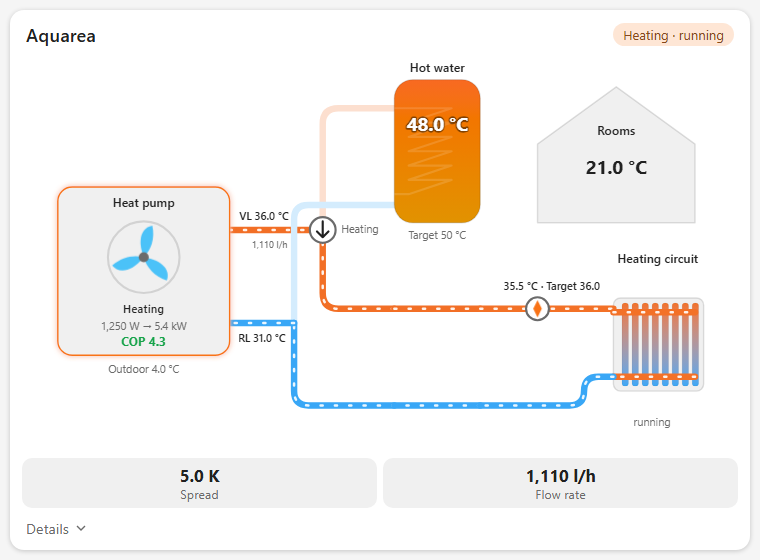
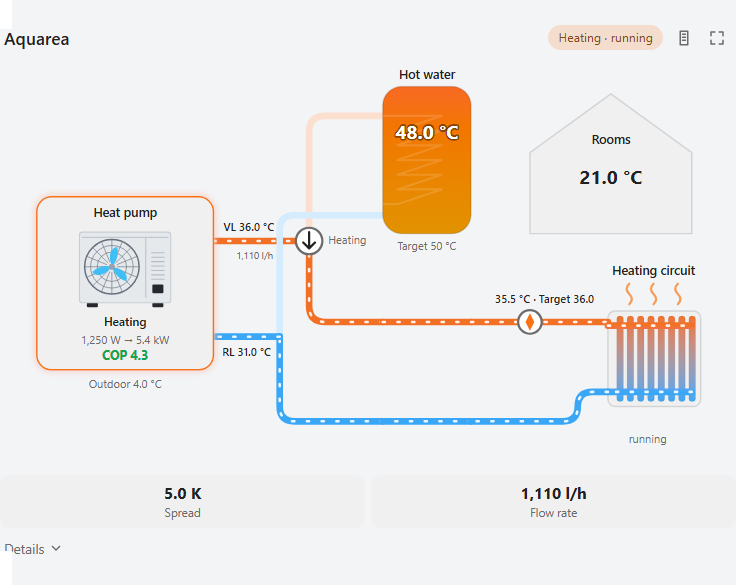
Refresh unit styles and README media

diff --git a/dist/heatpump-hydraulic-card.js b/dist/heatpump-hydraulic-card.js
@@ -130,6 +130,7 @@ const HFC_PRESETS = {
   // so entity ids and the HA language do not matter. Restrict to one device with `device:`.
   vicare: {
     name: 'Viessmann (ViCare)',
+    unit_style: 'viessmann',
     // Gas boilers also report outside_temperature, so only compressor entities count as a heat pump.
     detect: (ctx) => (ctx.key('vicare', 'binary_sensor', 'compressor') || ctx.key('vicare', 'sensor', 'compressor_phase')
       || ctx.key('vicare', 'sensor', 'compressor_starts') ? '' : undefined),
@@ -251,6 +252,7 @@ const HFC_PRESETS = {
   // the "multiple instances" entity format adds a prefix, which is detected. Enum texts follow the EMS-ESP language.
   emsesp: {
     name: 'EMS-ESP (Bosch, Buderus, Junkers, Nefit …)',
+    unit_style: 'bosch',
     source_type: (e, hass) => (/hpbrinein$/.test(e.source_in || '') && hass.states[e.source_in] ? 'brine' : 'air'),
     detect: (ctx) => {
       // Gas boilers have curflowtemp as well; only heat pump entities count.
@@ -318,6 +320,7 @@ const HFC_PRESETS = {
   // Entity ids are slugs of the MQTT topics: sensor.<prefix>_main_<topic>, prefix default panasonic_heat_pump.
   heishamon: {
     name: 'Panasonic Aquarea (HeishaMon)',
+    unit_style: 'panasonic',
     auto_circuits: false,
     detect: (ctx) => {
       const id = ctx.match(/^sensor\.(.+)_main_main_outlet_temp$/, 'aquarea');
@@ -471,7 +474,7 @@ const HFC_EDITOR = {
     power_sources: 'PV / battery / grid', ps_auto: 'Energy dashboard, unless set below', ps_manual: 'Only the sensors below',
     source_type: 'Heat source', src_air: 'Air', src_brine: 'Ground (brine)', src_water: 'Groundwater',
     hc_count: 'Heating circuits', hc2_type: 'Circuit 2 emitter', hc3_type: 'Circuit 3 emitter',
-    unit_style: 'Unit drawing', unit_auto: 'Automatic (from the preset)', unit_generic: 'Generic (fan)', unit_lambda: 'Lambda EU-L', unit_vaillant: 'Vaillant aroTHERM plus',
+    unit_style: 'Unit drawing', unit_auto: 'Automatic (from the preset)', unit_generic: 'Generic (fan)', unit_lambda: 'Lambda EU-L', unit_vaillant: 'Vaillant aroTHERM plus', unit_panasonic: 'Panasonic Aquarea', unit_viessmann: 'Viessmann Vitocal', unit_bosch: 'Bosch / Buderus', unit_saunier: 'Saunier Duval GeniaAir', unit_samsung: 'Samsung EHS Mono',
     unit_size: 'Vaillant size', size_small: '3.5 / 5.5 kW (1 fan, low)', size_medium: '7.5 kW (1 fan)', size_large: '10.5 / 12.5 kW (2 fans)',
     timeline: 'Timeline of the operating mode', timeline_hours: 'Timeline length (hours)',
     layout: 'Layout', layout_default: 'Default', layout_compact: 'Compact (narrow columns)', layout_wide: 'Wide (tiles beside the schematic)', layout_wall: 'Wall display (large, controls fade out)',
@@ -531,7 +534,7 @@ const HFC_EDITOR = {
     power_sources: 'PV / Akku / Netz', ps_auto: 'Energie-Dashboard, außer unten gesetzt', ps_manual: 'Nur die Sensoren unten',
     source_type: 'Wärmequelle', src_air: 'Luft', src_brine: 'Erdreich (Sole)', src_water: 'Grundwasser',
     hc_count: 'Heizkreise', hc2_type: 'Wärmeabgabe Heizkreis 2', hc3_type: 'Wärmeabgabe Heizkreis 3',
-    unit_style: 'Geräte-Zeichnung', unit_auto: 'Automatisch (aus der Voreinstellung)', unit_generic: 'Allgemein (Lüfter)', unit_lambda: 'Lambda EU-L', unit_vaillant: 'Vaillant aroTHERM plus',
+    unit_style: 'Geräte-Zeichnung', unit_auto: 'Automatisch (aus der Voreinstellung)', unit_generic: 'Allgemein (Lüfter)', unit_lambda: 'Lambda EU-L', unit_vaillant: 'Vaillant aroTHERM plus', unit_panasonic: 'Panasonic Aquarea', unit_viessmann: 'Viessmann Vitocal', unit_bosch: 'Bosch / Buderus', unit_saunier: 'Saunier Duval GeniaAir', unit_samsung: 'Samsung EHS Mono',
     unit_size: 'Vaillant-Größe', size_small: '3,5 / 5,5 kW (1 Lüfter, niedrig)', size_medium: '7,5 kW (1 Lüfter)', size_large: '10,5 / 12,5 kW (2 Lüfter)',
     timeline: 'Zeitleiste der Betriebsart', timeline_hours: 'Länge der Zeitleiste (Stunden)',
     layout: 'Layout', layout_default: 'Standard', layout_compact: 'Kompakt (schmale Spalten)', layout_wide: 'Breit (Kacheln neben dem Schema)', layout_wall: 'Wanddisplay (groß, Bedienelemente blenden aus)',
@@ -616,7 +619,7 @@ const HFC_LAYOUTS = ['default', 'compact', 'wide', 'wall'];
 const HFC_ANIMATIONS = ['auto', 'always', 'off'];
 const HFC_THEMES = ['auto', 'night', 'contrast'];
 // Drawing of the outdoor unit: `auto` takes the style of the preset; `unit_size` picks the Vaillant aroTHERM plus class.
-const HFC_UNIT_STYLES = ['auto', 'generic', 'lambda', 'vaillant'];
+const HFC_UNIT_STYLES = ['auto', 'generic', 'lambda', 'vaillant', 'panasonic', 'viessmann', 'bosch', 'saunier', 'samsung'];
 const HFC_UNIT_SIZES = ['small', 'medium', 'large'];
 const HFC_EMITTERS = ['underfloor', 'radiator', 'column'];
 // Wall display: seconds the quick controls and the details toggle stay visible after the last touch or mouse move.
@@ -2022,7 +2025,7 @@ class HeatpumpFlowCard extends HTMLElement {
   }
 
   // Drawing of the outdoor unit inside the heat pump block (air source only; brine and water keep the loop symbol).
-  // Styles: generic (fan ring), lambda (EU-L), vaillant in three sizes (aroTHERM plus). `auto` takes the style of the preset.
+  // Manufacturer-inspired, logo-free outdoor units. `auto` takes the style of the preset.
   _unitKey() {
     if (this._sourceType !== 'air') return 'generic';
     const style = this._config.unit_style && this._config.unit_style !== 'auto' ? this._config.unit_style : (this._preset?.unit_style || 'generic');
@@ -2070,6 +2073,63 @@ class HeatpumpFlowCard extends HTMLElement {
         fans: grilles.map(([cx, cy, r]) => [...abs(cx, cy), +(r * 0.86).toFixed(1), 'vai-fan']),
         above: T(`<path class="vai-seam" d="M${x + pw + 8} ${y + 6} V${y + h - 6}"/>`),
         snows: grilles.map(([cx, cy, r]) => [...abs(cx, cy), +Math.min(19, r * 0.58).toFixed(1)]),
+      };
+    }
+    if (key === 'panasonic') {
+      // Aquarea H/J/K outdoor units: a pale rectangular casing, large left-hand grille and a narrow service panel.
+      // This is an original simplified drawing without branding; proportions follow the common single-fan 824/875 mm units.
+      const x = 58; const y = 48; const w = 124; const h = 96;
+      const cx = 102; const cy = 95; const r = 37;
+      const grille = `<circle class="pana-gr" cx="${cx}" cy="${cy}" r="${r}"/><circle class="pana-gr thin" cx="${cx}" cy="${cy}" r="${(r * 0.78).toFixed(1)}"/><circle class="pana-gr thin" cx="${cx}" cy="${cy}" r="${(r * 0.54).toFixed(1)}"/>${Array.from({ length: 16 }, (_, m) => { const a = (m * Math.PI) / 8; return `<line class="pana-gr thin" x1="${(cx + Math.cos(a) * 7).toFixed(1)}" y1="${(cy + Math.sin(a) * 7).toFixed(1)}" x2="${(cx + Math.cos(a) * r).toFixed(1)}" y2="${(cy + Math.sin(a) * r).toFixed(1)}"/>`; }).join('')}`;
+      return {
+        below: T(`<rect class="pana-foot" x="${x + 10}" y="${y + h}" width="15" height="6" rx="1.5"/><rect class="pana-foot" x="${x + w - 25}" y="${y + h}" width="15" height="6" rx="1.5"/><rect class="pana-body" x="${x}" y="${y}" width="${w}" height="${h}" rx="4"/><path class="pana-top" d="M${x + 3} ${y + 7} H${x + w - 3}"/>${grille}`),
+        fans: [[...abs(cx, cy), +(r * 0.82).toFixed(1), 'pana-fan']],
+        above: T(`<path class="pana-seam" d="M148 ${y + 8} V${y + h - 7}"/><path class="pana-vents" d="M156 76h17M156 82h17M156 88h17M156 94h17M156 100h17M156 106h17M156 112h17"/><rect class="pana-panel" x="157" y="119" width="15" height="12" rx="1.5"/>`),
+        snows: [[...abs(cx, cy), 18]],
+      };
+    }
+    if (key === 'viessmann') {
+      // Vitocal 250-A: tall graphite body with a softly rounded, full-height horizontal-louvre front.
+      const x = 78; const y = 28; const w = 84; const h = 124; const cx = 120; const cy = 88; const r = 32;
+      const slats = Array.from({ length: 17 }, (_, n) => `<path class="vies-slat" d="M${x + 9} ${y + 12 + n * 6} H${x + w - 9}"/>`).join('');
+      return {
+        below: T(`<rect class="vies-foot" x="${x + 9}" y="${y + h}" width="14" height="5" rx="1.5"/><rect class="vies-foot" x="${x + w - 23}" y="${y + h}" width="14" height="5" rx="1.5"/><rect class="vies-body" x="${x}" y="${y}" width="${w}" height="${h}" rx="12"/><circle class="vies-well" cx="${cx}" cy="${cy}" r="${r + 3}"/>`),
+        fans: [[...abs(cx, cy), r, 'vies-fan']],
+        above: T(`<g>${slats}</g><rect class="vies-rim" x="${x}" y="${y}" width="${w}" height="${h}" rx="12"/>`),
+        snows: [[...abs(cx, cy), 18]],
+      };
+    }
+    if (key === 'bosch') {
+      // Compress 5800i/6800i AW: broad pale casing, rounded corners and one centred circular intake.
+      const x = 52; const y = 50; const w = 136; const h = 94; const cx = 120; const cy = 96; const r = 37;
+      const spokes = Array.from({ length: 16 }, (_, n) => { const a = (n * Math.PI) / 8; return `<line class="bosch-gr thin" x1="${(cx + Math.cos(a) * 8).toFixed(1)}" y1="${(cy + Math.sin(a) * 8).toFixed(1)}" x2="${(cx + Math.cos(a) * r).toFixed(1)}" y2="${(cy + Math.sin(a) * r).toFixed(1)}"/>`; }).join('');
+      return {
+        below: T(`<rect class="bosch-foot" x="${x + 13}" y="${y + h}" width="15" height="6" rx="2"/><rect class="bosch-foot" x="${x + w - 28}" y="${y + h}" width="15" height="6" rx="2"/><rect class="bosch-body" x="${x}" y="${y}" width="${w}" height="${h}" rx="13"/><circle class="bosch-gr" cx="${cx}" cy="${cy}" r="${r}"/><circle class="bosch-gr thin" cx="${cx}" cy="${cy}" r="${(r * 0.74).toFixed(1)}"/>${spokes}`),
+        fans: [[...abs(cx, cy), +(r * 0.83).toFixed(1), 'bosch-fan']],
+        above: T(`<path class="bosch-top" d="M${x + 13} ${y + 9} H${x + w - 13}"/><rect class="bosch-mark" x="${x + w - 19}" y="${y + 13}" width="5" height="18" rx="2.5"/>`),
+        snows: [[...abs(cx, cy), 18]],
+      };
+    }
+    if (key === 'saunier') {
+      // GeniaAir Mono: white horizontal casing, black fan grille with the characteristic red accent ring.
+      const x = 56; const y = 56; const w = 128; const h = 88; const cx = 101; const cy = 99; const r = 35;
+      const spokes = Array.from({ length: 14 }, (_, n) => { const a = (n * Math.PI) / 7; return `<line class="sd-gr thin" x1="${(cx + Math.cos(a) * 7).toFixed(1)}" y1="${(cy + Math.sin(a) * 7).toFixed(1)}" x2="${(cx + Math.cos(a) * r).toFixed(1)}" y2="${(cy + Math.sin(a) * r).toFixed(1)}"/>`; }).join('');
+      return {
+        below: T(`<rect class="sd-foot" x="${x + 10}" y="${y + h}" width="15" height="6" rx="2"/><rect class="sd-foot" x="${x + w - 25}" y="${y + h}" width="15" height="6" rx="2"/><rect class="sd-body" x="${x}" y="${y}" width="${w}" height="${h}" rx="5"/><circle class="sd-accent" cx="${cx}" cy="${cy}" r="${r + 2}"/><circle class="sd-gr" cx="${cx}" cy="${cy}" r="${r}"/><circle class="sd-gr thin" cx="${cx}" cy="${cy}" r="${(r * 0.7).toFixed(1)}"/>${spokes}`),
+        fans: [[...abs(cx, cy), +(r * 0.82).toFixed(1), 'sd-fan']],
+        above: T(`<path class="sd-seam" d="M148 ${y + 8} V${y + h - 8}"/><path class="sd-vents" d="M157 83h17M157 90h17M157 97h17M157 104h17M157 111h17"/><rect class="sd-badge" x="160" y="120" width="10" height="4" rx="2"/>`),
+        snows: [[...abs(cx, cy), 18]],
+      };
+    }
+    if (key === 'samsung') {
+      // EHS Mono HT Quiet: dark-grey monolith with a horizontal black grille hiding the fan.
+      const x = 57; const y = 46; const w = 126; const h = 102; const cx = 103; const cy = 97; const r = 34;
+      const slats = Array.from({ length: 13 }, (_, n) => `<path class="sam-slat" d="M${x + 8} ${y + 14 + n * 6} H${x + 88}"/>`).join('');
+      return {
+        below: T(`<rect class="sam-foot" x="${x + 10}" y="${y + h}" width="15" height="6" rx="2"/><rect class="sam-foot" x="${x + w - 25}" y="${y + h}" width="15" height="6" rx="2"/><rect class="sam-body" x="${x}" y="${y}" width="${w}" height="${h}" rx="5"/><rect class="sam-grille" x="${x + 5}" y="${y + 7}" width="88" height="${h - 14}" rx="3"/>`),
+        fans: [[...abs(cx, cy), r, 'sam-fan']],
+        above: T(`<g>${slats}</g><path class="sam-seam" d="M${x + 96} ${y + 8} V${y + h - 8}"/><circle class="sam-dot" cx="${x + 110}" cy="${y + 17}" r="2"/>`),
+        snows: [[...abs(cx, cy), 18]],
       };
     }
     return { below: '<circle class="fan-ring" cx="170" cy="288" r="50"/>', fans: [[170, 288, 50, '']], above: '', snows: [[170, 288, 18]] };
@@ -2961,12 +3021,37 @@ HeatpumpFlowCard.styles = `
   .lam-plinth { fill: color-mix(in srgb, var(--primary-text-color, #1f2937) 22%, var(--card-background-color, #fff)); }
   /* a rim in the theme text colour keeps the anthracite body visible on dark cards */
   .lam-rim { fill: none; stroke: color-mix(in srgb, var(--primary-text-color, #1f2937) 48%, transparent); stroke-width: 1.4; }
-  .fan.lam-fan .blade, .fan.vai-fan .blade { fill: #9aa3ad; opacity: .55; } .fan.lam-fan .hub, .fan.vai-fan .hub { fill: #9aa3ad; }
-  .fan.lam-fan.on .blade, .fan.vai-fan.on .blade { fill: ${hfcVar('cool')}; opacity: .95; }
+  .fan.lam-fan .blade, .fan.vai-fan .blade, .fan.pana-fan .blade, .fan.vies-fan .blade, .fan.bosch-fan .blade, .fan.sd-fan .blade, .fan.sam-fan .blade { fill: #9aa3ad; opacity: .55; }
+  .fan.lam-fan .hub, .fan.vai-fan .hub, .fan.pana-fan .hub, .fan.vies-fan .hub, .fan.bosch-fan .hub, .fan.sd-fan .hub, .fan.sam-fan .hub { fill: #9aa3ad; }
+  .fan.lam-fan.on .blade, .fan.vai-fan.on .blade, .fan.pana-fan.on .blade, .fan.vies-fan.on .blade, .fan.bosch-fan.on .blade, .fan.sd-fan.on .blade, .fan.sam-fan.on .blade { fill: ${hfcVar('cool')}; opacity: .95; }
   .vai-body { fill: ${hfcVar('casing')}; stroke: color-mix(in srgb, ${hfcVar('casing')} 80%, #6b7280); stroke-width: 1.5; }
   .vai-dark, .vai-foot { fill: color-mix(in srgb, ${hfcVar('anthracite')} 60%, #000); }
   .vai-gr { fill: none; stroke: color-mix(in srgb, ${hfcVar('anthracite')} 45%, #a0a8b0); stroke-width: 2; } .vai-gr.thin { stroke-width: 1; opacity: .85; }
   .vai-seam { stroke: color-mix(in srgb, ${hfcVar('casing')} 80%, #6b7280); stroke-width: 1.2; fill: none; opacity: .8; }
+  .pana-body { fill: ${hfcVar('casing')}; stroke: color-mix(in srgb, ${hfcVar('casing')} 76%, #64748b); stroke-width: 1.5; }
+  .pana-foot, .pana-panel { fill: color-mix(in srgb, ${hfcVar('anthracite')} 62%, #000); }
+  .pana-gr { fill: none; stroke: color-mix(in srgb, ${hfcVar('anthracite')} 52%, #94a3b8); stroke-width: 2; }
+  .pana-gr.thin { stroke-width: 1; opacity: .88; }
+  .pana-top, .pana-seam, .pana-vents { fill: none; stroke: color-mix(in srgb, ${hfcVar('casing')} 62%, #64748b); stroke-width: 1.25; }
+  .pana-vents { stroke-width: 1.5; stroke-linecap: round; }
+  .vies-body { fill: ${hfcVar('anthracite')}; stroke: color-mix(in srgb, ${hfcVar('anthracite')} 76%, #000); stroke-width: 1.5; }
+  .vies-foot, .sam-foot { fill: color-mix(in srgb, ${hfcVar('anthracite')} 55%, #000); }
+  .vies-well { fill: color-mix(in srgb, ${hfcVar('anthracite')} 35%, #000); opacity: .8; }
+  .vies-slat { fill: none; stroke: color-mix(in srgb, ${hfcVar('anthracite')} 62%, #000); stroke-width: 2.3; stroke-linecap: round; }
+  .vies-rim { fill: none; stroke: color-mix(in srgb, var(--primary-text-color, #1f2937) 42%, transparent); stroke-width: 1.2; }
+  .bosch-body, .sd-body { fill: ${hfcVar('casing')}; stroke: color-mix(in srgb, ${hfcVar('casing')} 76%, #64748b); stroke-width: 1.5; }
+  .bosch-foot, .sd-foot { fill: color-mix(in srgb, ${hfcVar('anthracite')} 58%, #000); }
+  .bosch-gr, .sd-gr { fill: none; stroke: color-mix(in srgb, ${hfcVar('anthracite')} 50%, #94a3b8); stroke-width: 2; }
+  .bosch-gr.thin, .sd-gr.thin { stroke-width: 1; opacity: .88; }
+  .bosch-top, .sd-seam, .sd-vents { fill: none; stroke: color-mix(in srgb, ${hfcVar('casing')} 62%, #64748b); stroke-width: 1.3; }
+  .bosch-mark { fill: ${hfcVar('good')}; opacity: .8; }
+  .sd-accent { fill: none; stroke: ${hfcVar('hot')}; stroke-width: 2.5; }
+  .sd-vents { stroke-linecap: round; } .sd-badge { fill: ${hfcVar('hot')}; }
+  .sam-body { fill: color-mix(in srgb, ${hfcVar('anthracite')} 88%, #111827); stroke: color-mix(in srgb, ${hfcVar('anthracite')} 62%, #000); stroke-width: 1.5; }
+  .sam-grille { fill: color-mix(in srgb, ${hfcVar('anthracite')} 32%, #000); }
+  .sam-slat { fill: none; stroke: color-mix(in srgb, ${hfcVar('anthracite')} 48%, #000); stroke-width: 3; stroke-linecap: round; }
+  .sam-seam { fill: none; stroke: color-mix(in srgb, ${hfcVar('anthracite')} 75%, #94a3b8); stroke-width: 1.2; }
+  .sam-dot { fill: color-mix(in srgb, ${hfcVar('casing')} 70%, #fff); opacity: .7; }
   /* timeline of the operating mode */
   .timeline { margin: 8px 4px 0; }
   .tl-head { display: flex; justify-content: space-between; gap: 8px; font-size: .82em; color: var(--hfc-muted); }

diff --git a/test/selftest.html b/test/selftest.html
@@ -660,12 +660,12 @@
     one.remove();
   }
 
-  // 14. outdoor unit drawings: style per preset, Vaillant sizes, fans and snowflakes, loop symbol for ground sources
+  // 14. outdoor unit drawings: style per preset, manufacturer variants, fans and snowflakes, loop symbol for ground sources
   {
     const draw = async (setup, scen, cfg = {}) => {
       const c = mount({ ...setup.config, ...cfg }, hassOf(toStates(setup.states(scen)), setup.registry || {}, setup.energy, setup)); await wait(20);
       const q = (sel) => c.shadowRoot.querySelectorAll(sel).length;
-      const out = { lam: q('.lam-body'), vai: q('.vai-body'), ring: q('.fan-ring'), fans: q('.fan'), snows: q('.snow'), fan2on: c.shadowRoot.getElementById('fan2')?.classList.contains('on'), snow2on: c.shadowRoot.getElementById('snow2')?.classList.contains('on'),
+      const out = { lam: q('.lam-body'), vai: q('.vai-body'), pana: q('.pana-body'), vies: q('.vies-body'), bosch: q('.bosch-body'), sd: q('.sd-body'), samsung: q('.sam-body'), ring: q('.fan-ring'), fans: q('.fan'), snows: q('.snow'), fan2on: c.shadowRoot.getElementById('fan2')?.classList.contains('on'), snow2on: c.shadowRoot.getElementById('snow2')?.classList.contains('on'),
         origin: c.shadowRoot.getElementById('fan')?.style.transformOrigin, ok: ok(c) };
       c.remove(); return out;
     };
@@ -676,8 +676,12 @@
     check(o.lam === 0 && o.ring === 1 && o.fans === 1, 'unit_style generic keeps the fan ring');
     o = await draw(setups[1], 'heat', { unit_style: 'auto' });
     check(o.lam === 1, 'unit_style auto follows the preset');
+    o = await draw(setups[7], 'heat');
+    check(o.lam === 0 && o.vai === 0 && o.ring === 1, 'manual setups without a style keep the generic drawing');
+    o = await draw(setups[2], 'heat');
+    check(o.vies === 1 && o.ring === 0 && o.fans === 1, `ViCare preset draws the Viessmann Vitocal unit (${JSON.stringify(o)})`);
     o = await draw(setups[4], 'heat');
-    check(o.lam === 0 && o.vai === 0 && o.ring === 1, 'presets without a style keep the generic drawing');
+    check(o.bosch === 1 && o.ring === 0 && o.fans === 1, `EMS-ESP preset draws the Bosch/Buderus unit (${JSON.stringify(o)})`);
     o = await draw(setups[3], 'heat');
     check(o.vai === 1 && o.fans === 1, `Vaillant preset draws the aroTHERM plus, medium by default (${JSON.stringify(o)})`);
     o = await draw(setups[3], 'heat', { unit_size: 'small' });
@@ -688,6 +692,14 @@
     check(o.fans === 2 && o.fan2on === false, 'both fans stand still in standby');
     o = await draw(setups[3], 'defrost', { unit_size: 'large' });
     check(o.snows === 2, 'two snowflakes for two fans');
+    o = await draw(setups[5], 'heat');
+    check(o.pana === 1 && o.lam === 0 && o.vai === 0 && o.ring === 0 && o.fans === 1, `HeishaMon preset draws the Panasonic Aquarea unit (${JSON.stringify(o)})`);
+    o = await draw(setups[5], 'defrost');
+    check(o.pana === 1 && o.snows === 1, 'Panasonic unit gets one snowflake while defrosting');
+    o = await draw(setups[3], 'heat', { unit_style: 'saunier' });
+    check(o.sd === 1 && o.fans === 1, 'Saunier Duval style draws the GeniaAir unit');
+    o = await draw(setups[7], 'heat', { unit_style: 'samsung' });
+    check(o.samsung === 1 && o.fans === 1, 'Samsung style draws the EHS Mono unit without requiring a preset');
     o = await draw(setups[1], 'defrost');
     check(o.snows === 1, 'one snowflake on the Lambda unit');
     o = await draw(setups[3], 'heat', { unit_style: 'lambda' });
@@ -696,7 +708,7 @@
     check(o.lam === 0 && o.ok, 'ground sources keep their loop symbol');
     const keysOf = (n) => (n.schema ? n.schema.flatMap(keysOf) : [n.name]);
     const names = (cfg) => C._formSchema(cfg).schema.flatMap(keysOf);
-    check(names({}).includes('unit_style') && !names({ preset: 'lambda' }).includes('unit_size') && names({ preset: 'vaillant' }).includes('unit_size') && names({ unit_style: 'vaillant' }).includes('unit_size') && !names({ preset: 'vaillant', unit_style: 'lambda' }).includes('unit_size'), 'editor offers unit_style, and unit_size only for Vaillant');
+    check(names({}).includes('unit_style') && !names({ preset: 'lambda' }).includes('unit_size') && names({ preset: 'vaillant' }).includes('unit_size') && names({ unit_style: 'vaillant' }).includes('unit_size') && !names({ preset: 'vaillant', unit_style: 'panasonic' }).includes('unit_size'), 'editor offers unit_style, and unit_size only for Vaillant');
   }
 
   // 15. keyboard: tab stops, roles, labels, arrow keys, activation keys, focus frame
@@ -1004,7 +1016,7 @@
     check(!twoPoint.shadowRoot.getElementById('g-dhw-middle') && !twoPoint.shadowRoot.getElementById('g-buf-middle'), 'existing two-sensor tanks keep two-point gradients');
     twoPoint.remove();
 
-    for (const unit_style of ['generic', 'lambda', 'vaillant']) {
+    for (const unit_style of ['generic', 'lambda', 'vaillant', 'panasonic', 'viessmann', 'bosch', 'saunier', 'samsung']) {
       const s = setups[0]; const vapour = mount({ ...s.config, unit_style }, hassOf(toStates(s.states('defrost')), s.registry || {}, s.energy, s)); await wait(20);
       check(vapour.shadowRoot.getElementById('vapour')?.classList.contains('on'), `defrost vapour works with ${unit_style} unit`);
       vapour.remove();

diff --git a/demo/index.html b/demo/index.html
@@ -83,7 +83,7 @@
       <div class="panel"><h2>Card theme</h2><div class="opts row" id="themes"></div>
         <p class="note">Automatic follows the dashboard. Night dims the card for wall tablets; high contrast strengthens text, pipes and outlines.</p></div>
       <div class="panel"><h2>Unit drawing</h2><div class="opts row" id="units"></div>
-        <p class="note">Automatic uses the drawing of the preset (Lambda, Vaillant); other heat pumps keep the generic fan. Vaillant comes in three sizes. Ground and groundwater sources keep their loop symbol.</p></div>
+        <p class="note">Automatic uses the drawing of the preset (Lambda, Viessmann, Vaillant, Bosch/Buderus, Panasonic). Saunier Duval and Samsung are selectable manually. Vaillant comes in three sizes. Ground and groundwater sources keep their loop symbol.</p></div>
       <div class="panel"><h2>Colours</h2><div class="opts row" id="palettes"></div>
         <p class="note">Every colour is a CSS variable (<code>--hfc-*</code>) you can set in a theme or with card-mod.</p></div>
       <div class="panel"><div class="yhead"><h2>Card configuration</h2><button id="copy">Copy</button></div><pre id="yaml"></pre>
@@ -103,7 +103,7 @@ let lang = ['en', 'de', 'nl'].includes(q.get('lang')) ? q.get('lang') : 'en';
 if (q.get('embed') === '1') document.body.classList.add('embed');
 let layout = ['default', 'compact', 'wide', 'wall'].includes(q.get('layout')) ? q.get('layout') : 'default';
 let theme = ['auto', 'night', 'contrast'].includes(q.get('theme')) ? q.get('theme') : 'auto';
-const unitKeys = ['auto', 'generic', 'lambda', 'vaillant-small', 'vaillant-medium', 'vaillant-large'];
+const unitKeys = ['auto', 'generic', 'lambda', 'vaillant-small', 'vaillant-medium', 'vaillant-large', 'panasonic', 'viessmann', 'bosch', 'saunier', 'samsung'];
 let unit = unitKeys.includes(q.get('unit')) ? q.get('unit') : 'auto';
 let palette = q.get('palette') === 'teal' ? 'teal' : 'default';
 const palettes = { teal: { '--hfc-heat': '#14b8a6', '--hfc-hot': '#e11d48', '--hfc-flow-cold': '#5eead4', '--hfc-flow-hot': '#e11d48', '--hfc-tank-cold': '#6366f1', '--hfc-tank-hot': '#f43f5e', '--hfc-pv': '#eab308' } };
@@ -202,7 +202,12 @@ setups.forEach((s, i) => mk('setups', `${esc(s.name)}<small>${esc(s.sub)}</small
 scenarios.forEach(([k, l]) => mk('states', l, k, () => { scen = k; }));
 [['default', 'Default'], ['compact', 'Compact'], ['wide', 'Wide'], ['wall', 'Wall display']].forEach(([k, l]) => mk('layouts', l, k, () => { layout = k; }));
 [['auto', 'Automatic'], ['night', 'Night'], ['contrast', 'High contrast']].forEach(([k, l]) => mk('themes', l, k, () => { theme = k; }));
-[['auto', 'Automatic'], ['generic', 'Generic'], ['lambda', 'Lambda'], ['vaillant-small', 'Vaillant 3.5 / 5.5 kW'], ['vaillant-medium', 'Vaillant 7.5 kW'], ['vaillant-large', 'Vaillant 10.5 / 12.5 kW']].forEach(([k, l]) => mk('units', l, k, () => { unit = k; }));
+[
+  ['auto', 'Automatic'], ['generic', 'Generic'], ['lambda', 'Lambda'],
+  ['vaillant-small', 'Vaillant 3.5 / 5.5 kW'], ['vaillant-medium', 'Vaillant 7.5 kW'], ['vaillant-large', 'Vaillant 10.5 / 12.5 kW'],
+  ['panasonic', 'Panasonic Aquarea'], ['viessmann', 'Viessmann Vitocal'], ['bosch', 'Bosch / Buderus'],
+  ['saunier', 'Saunier Duval GeniaAir'], ['samsung', 'Samsung EHS Mono'],
+].forEach(([k, l]) => mk('units', l, k, () => { unit = k; }));
 [['default', 'Default'], ['teal', 'Teal']].forEach(([k, l]) => mk('palettes', l, k, () => { palette = k; }));
 mk('display', 'English', 'en', () => { lang = 'en'; });
 mk('display', 'Deutsch', 'de', () => { lang = 'de'; });

diff --git a/README.md b/README.md
@@ -27,7 +27,7 @@ It shows electricity flowing from **PV, battery and grid** into the heat pump, t
 >
 > **Samsung EHS support is in preparation in [PR #16](https://github.com/Sturmi77/heatpump-hydraulic-card/pull/16).** It remains marked untested until the contributor changes have been reviewed, merged and validated; `preset: samsung` is not available in the current release yet.
 
-![Animated demo: heating, hot water and defrost, with the Lambda and Vaillant unit drawings](docs/demo.gif)
+![Animated demo: heating, hot water and defrost across the current manufacturer-specific schematics](docs/demo.gif)
 
 **[Try the live demo](https://sturmi77.github.io/heatpump-hydraulic-card/demo/)**: every preset in heating, hot water, defrost and standby, the automatic/night/contrast card themes, English, German and an example custom Dutch translation, with the matching card configuration. Runs in the browser with simulated data, no Home Assistant needed.
 
@@ -43,7 +43,7 @@ The completed release history and the prioritized post-0.10.0 backlog are mainta
 
 - **Power sources:** PV / battery / grid → heat pump, animated whenever more than 10 W flow. Taken automatically from your **Energy dashboard** (its power sensors), or from your own sensors.
 - **Heat pump:** the fan spins while the compressor runs, faster at higher compressor modulation (or higher power, when the integration has no modulation value); the circuit pumps and the flow lines follow the modulation as well. Shows mode and sub-state, electrical power → heat output, and live COP. Defrost is shown with a snowflake, restrained vapour and an icy flow line. The frame of the block is orange while heating, red for hot water and blue while defrosting or cooling, grey in standby. A long status line wraps into mode and status. A backup / inline heater (`heater`) glows inside the unit while it runs.
-- **Unit drawing:** the heat pump block shows the outdoor unit: the anthracite Lambda EU-L with its cut-out pattern, or the Vaillant aroTHERM plus in three sizes (one or two fans). Other brands keep the generic fan. The fan spins, the blades turn blue while running, and each fan gets its own snowflake while defrosting.
+- **Unit drawing:** the heat pump block can show simplified, logo-free outdoor units for Lambda, Viessmann, Vaillant, Bosch/Buderus, Panasonic, Saunier Duval and Samsung. Presets select a style where the integration identifies the product family; every style is also available manually. The fan spins, the blades turn blue while running, and each fan gets its own snowflake while defrosting.
 - **Heat source:** air (the outdoor temperature is shown under the unit; default), **ground** with a brine loop or **groundwater** with two wells (`source_type`), with source inlet and outlet temperatures and the source flow rate. Optional brine and heating-circuit pressures are normalized to bar and can show warning/critical thresholds with text symbols as well as colour.
 - **Diverter valve:** shows DHW or heating; the active circuit is animated.
 - **Tanks:** DHW tank and buffer with a top/bottom temperature gradient, optionally refined by a middle sensor (`dhw_middle`, `buffer_middle`; blue = cold, then cyan and orange, red = hot), target, mode, a heat-exchanger coil while charging, and the circulation pump. **Heater rods** (`dhw_heater`, `buffer_heater`) glow orange while on, red at stage 2 or higher.
@@ -80,7 +80,22 @@ The completed release history and the prioritized post-0.10.0 backlog are mainta
 
 ![One card from phone to wall tablet: phone light and dark, compact, wide and wall layout](docs/layouts.png)
 
-![The outdoor unit in the schematic: generic fan, Lambda EU-L and the Vaillant aroTHERM plus in three sizes](docs/units.png)
+### Outdoor-unit style coverage
+
+![Overview of all outdoor-unit schematics and their primary brand coverage](docs/unit-styles.png)
+
+| `unit_style` | Schematic based on | Brands / families covered | Automatic selection |
+|---|---|---|---|
+| `generic` | Neutral fan symbol | Any air-source heat pump | Fallback without a known style |
+| `lambda` | Lambda EU-L | Lambda | `preset: lambda` |
+| `viessmann` | Viessmann Vitocal 250-A | Viessmann Vitocal | `preset: vicare` |
+| `vaillant` | Vaillant aroTHERM plus | Vaillant; default fallback for the shared myPyllant brands | `preset: vaillant` |
+| `saunier` | Saunier Duval GeniaAir Mono | Saunier Duval | Manual override because myPyllant does not identify the brand reliably |
+| `bosch` | Bosch Compress 5800i/6800i AW | Bosch, Buderus, Junkers, Nefit, Worcester, Sieger, elm.leblanc and iVT through EMS-ESP | `preset: emsesp` |
+| `panasonic` | Panasonic Aquarea | Panasonic Aquarea | `preset: heishamon` |
+| `samsung` | Samsung EHS Mono HT Quiet | Samsung EHS Mono / Mono HT Quiet | Manual until the Samsung preset is included |
+
+These are deliberately simplified original drawings without manufacturer logos. Related brands can share an integration even when their enclosures differ; set `unit_style` explicitly whenever the automatic family drawing does not match the installed unit.
 
 | Keyboard focus |
 |---|
@@ -296,7 +311,7 @@ Everything can be set in the **UI editor**. With a preset, the editor shows whet
 | `source_spread` | Show `source_in − source_out` on a running ground/groundwater loop (default `true`). |
 | `brine_pressure_min`, `brine_pressure_crit`, `brine_pressure_max` | Optional brine-pressure thresholds in bar. Below `crit` is critical; below `min` or above `max` is a warning. |
 | `hc_pressure_min`, `hc_pressure_crit`, `hc_pressure_max` | Optional heating-pressure thresholds in bar, with the same warning/critical logic. |
-| `unit_style` | Drawing of the outdoor unit: `auto` (default, the style of the preset: `lambda` for the Lambda preset, `vaillant` for the Vaillant preset, otherwise the generic fan), `generic`, `lambda` or `vaillant`. Ground and groundwater sources keep their loop symbol. |
+| `unit_style` | Drawing of the outdoor unit: `auto` (default, uses the preset style), `generic`, `lambda`, `viessmann`, `vaillant`, `saunier`, `bosch`, `panasonic` or `samsung`. Ground and groundwater sources keep their loop symbol. See [Outdoor-unit style coverage](#outdoor-unit-style-coverage). |
 | `unit_size` | Vaillant aroTHERM plus class: `small` (3.5 and 5.5 kW, one fan, low), `medium` (7.5 kW, one fan, default) or `large` (10.5 and 12.5 kW, two fans). |
 | `timeline` | `true` shows a strip with the operating mode of the last hours under the schematic (needs the `mode` entity, or the `compressor` and optionally the `valve`, and the Home Assistant history). |
 | `timeline_hours` | Length of the timeline in hours, 3 to 72 (default 24). |
@@ -537,7 +552,7 @@ npm run dev
 `test/selftest.html` runs every installation in every scenario, broken entity states, edge-case configs, preset detection (gas boilers must not be detected as heat pumps) and the computed values. `npm run check` runs syntax and release-contract checks plus the self-test in Chromium and Firefox. See [`CONTRIBUTING.md`](CONTRIBUTING.md) for focused and interactive commands and failure diagnostics.
 
 ## Deutsch (Kurzfassung)
-Animiertes Hydraulikschema für Luft-Wasser-Wärmepumpen: Strom aus PV, Akku und Netz (automatisch aus dem Energie-Dashboard oder aus eigenen Sensoren) → Wärmepumpe → Umschaltventil → Warmwasser bzw. Puffer → Heizkreis. Voreinstellungen erkennen die Entitäten automatisch für: Lambda; Viessmann (ViCare); Vaillant, Saunier Duval, Bulex, Glow-worm, DemirDöküm (myPyllant); Bosch, Buderus, Junkers, Nefit, Worcester, Sieger, elm.leblanc, iVT (EMS-ESP); Panasonic Aquarea (HeishaMon). Samsung EHS über esphome-samsung-nasa ist in PR #16 in Vorbereitung, noch nicht im aktuellen Release enthalten und bleibt bis zur abgeschlossenen Prüfung als ungetestet markiert. Nur Lambda ist bisher mit einer echten Anlage getestet, alle ausgelieferten anderen Voreinstellungen noch nicht – Rückmeldungen gern über das Preset-Formular mit dem zuvor geprüften Diagnosebericht. Andere Hersteller werden über `entities` und `mode_map` angebunden. Schnellbedienung (Schalter, Tasten, Auswahl, Zahlen) und ein aufklappbarer Detailbereich mit Betriebsstunden, Zählern und Kältekreis. Die Kacheln unter dem Schema lassen sich aus einem Katalog mit über 40 Kennzahlen zusammenstellen (COP, Strom und Wärme je Betriebsart, Abtauungen, Laufzeit pro Start …), jeweils für heute, gestern, Woche, Monat, Jahr oder gesamt; fehlende Zeiträume kommen aus der Langzeitstatistik von Home Assistant. Eine Kostenkachel rechnet mit festem Preis oder bei dynamischem Tarif stundengenau ab; jede Kachel und jedes Element des Schemas kann eine eigene Tipp-, Halte- oder Doppeltipp-Aktion haben. Heizprogramme (Eco, Nacht, Party, Urlaub) erscheinen als Chip, die Animation folgt der Verdichterleistung, und eine Solarthermie-Anlage (noch ungetestet) wird als Kollektor am Dach mit Kreis zum Warmwasserspeicher gezeichnet. Das Außengerät wird als Zeichnung dargestellt: die anthrazitfarbene Lambda EU-L oder die Vaillant aroTHERM plus in drei Größen (ein oder zwei Lüfter), andere Hersteller behalten den allgemeinen Lüfter. Die Karte lässt sich per Tastatur bedienen: Tab, Pfeiltasten im Schema, Enter oder Leertaste für die Aktion (Umschalt+Enter halten, Alt+Enter doppelt tippen), mit sichtbarem Fokusrahmen und Beschriftungen für Screenreader. Das Layout gibt es kompakt (schmale Spalten), breit (Kacheln neben dem Schema), als Wanddisplay und im Vollbild; die festen Karten-Themes `night` und `contrast` ergänzen das automatische Dashboard-Theme. Eigene Texte oder Sprachen werden über `texts` ergänzt, fehlende Beschriftungen fallen auf Englisch zurück. Bis zu drei Heizkreise, jeweils als Flächenheizung oder Heizkörper. Wärmequelle Luft, Erdreich (Sole) oder Grundwasser; Heizstäbe in Speicher und Puffer sowie ein Zusatzheizer werden angezeigt. Volumenströme werden angezeigt, die Wärmeleistung wird bei Bedarf daraus berechnet. Grafischer Editor und Oberfläche auf Deutsch und Englisch. Ausprobieren ohne Installation: [Live-Demo](https://sturmi77.github.io/heatpump-hydraulic-card/demo/).
+Animiertes Hydraulikschema für Luft-Wasser-Wärmepumpen: Strom aus PV, Akku und Netz (automatisch aus dem Energie-Dashboard oder aus eigenen Sensoren) → Wärmepumpe → Umschaltventil → Warmwasser bzw. Puffer → Heizkreis. Voreinstellungen erkennen die Entitäten automatisch für: Lambda; Viessmann (ViCare); Vaillant, Saunier Duval, Bulex, Glow-worm, DemirDöküm (myPyllant); Bosch, Buderus, Junkers, Nefit, Worcester, Sieger, elm.leblanc, iVT (EMS-ESP); Panasonic Aquarea (HeishaMon). Samsung EHS über esphome-samsung-nasa ist in PR #16 in Vorbereitung, noch nicht im aktuellen Release enthalten und bleibt bis zur abgeschlossenen Prüfung als ungetestet markiert. Nur Lambda ist bisher mit einer echten Anlage getestet, alle ausgelieferten anderen Voreinstellungen noch nicht – Rückmeldungen gern über das Preset-Formular mit dem zuvor geprüften Diagnosebericht. Andere Hersteller werden über `entities` und `mode_map` angebunden. Schnellbedienung (Schalter, Tasten, Auswahl, Zahlen) und ein aufklappbarer Detailbereich mit Betriebsstunden, Zählern und Kältekreis. Die Kacheln unter dem Schema lassen sich aus einem Katalog mit über 40 Kennzahlen zusammenstellen (COP, Strom und Wärme je Betriebsart, Abtauungen, Laufzeit pro Start …), jeweils für heute, gestern, Woche, Monat, Jahr oder gesamt; fehlende Zeiträume kommen aus der Langzeitstatistik von Home Assistant. Eine Kostenkachel rechnet mit festem Preis oder bei dynamischem Tarif stundengenau ab; jede Kachel und jedes Element des Schemas kann eine eigene Tipp-, Halte- oder Doppeltipp-Aktion haben. Heizprogramme (Eco, Nacht, Party, Urlaub) erscheinen als Chip, die Animation folgt der Verdichterleistung, und eine Solarthermie-Anlage (noch ungetestet) wird als Kollektor am Dach mit Kreis zum Warmwasserspeicher gezeichnet. Das Außengerät wird als vereinfachte, logofreie Zeichnung für Lambda, Viessmann, Vaillant, Bosch/Buderus, Panasonic, Saunier Duval oder Samsung dargestellt; bekannte Presets wählen die passende Familie automatisch, alle Stile lassen sich manuell auswählen. Die Karte lässt sich per Tastatur bedienen: Tab, Pfeiltasten im Schema, Enter oder Leertaste für die Aktion (Umschalt+Enter halten, Alt+Enter doppelt tippen), mit sichtbarem Fokusrahmen und Beschriftungen für Screenreader. Das Layout gibt es kompakt (schmale Spalten), breit (Kacheln neben dem Schema), als Wanddisplay und im Vollbild; die festen Karten-Themes `night` und `contrast` ergänzen das automatische Dashboard-Theme. Eigene Texte oder Sprachen werden über `texts` ergänzt, fehlende Beschriftungen fallen auf Englisch zurück. Bis zu drei Heizkreise, jeweils als Flächenheizung oder Heizkörper. Wärmequelle Luft, Erdreich (Sole) oder Grundwasser; Heizstäbe in Speicher und Puffer sowie ein Zusatzheizer werden angezeigt. Volumenströme werden angezeigt, die Wärmeleistung wird bei Bedarf daraus berechnet. Grafischer Editor und Oberfläche auf Deutsch und Englisch. Ausprobieren ohne Installation: [Live-Demo](https://sturmi77.github.io/heatpump-hydraulic-card/demo/).
 
 ## License
 MIT © 2026 Sturmi77

diff --git a/CHANGELOG.md b/CHANGELOG.md
@@ -3,6 +3,8 @@
 ## Unreleased
 
 - Added an optional environmental-energy total counter with details and calendar-period tiles. When delivered heat is unavailable, total COP can be derived as `(environmental energy + electricity) / electricity`; all counters must cover the same time range (#26).
+- Added a simplified, logo-free Panasonic Aquarea outdoor-unit drawing. The HeishaMon preset selects it automatically; `unit_style: panasonic` makes it available to custom configurations.
+- Added logo-free Viessmann Vitocal, Bosch/Buderus, Saunier Duval GeniaAir and Samsung EHS Mono outdoor-unit drawings plus a documented brand-to-style overview. ViCare and EMS-ESP select their drawings automatically; Saunier Duval and Samsung remain explicit choices where the preset cannot identify the brand yet.
 - Refreshed the README, development plan and tester guidance after the 0.10.0 release; completed release issues are now tracked under the 0.10.0 milestone.
 
 ## 0.10.0 – 2026-10-24
